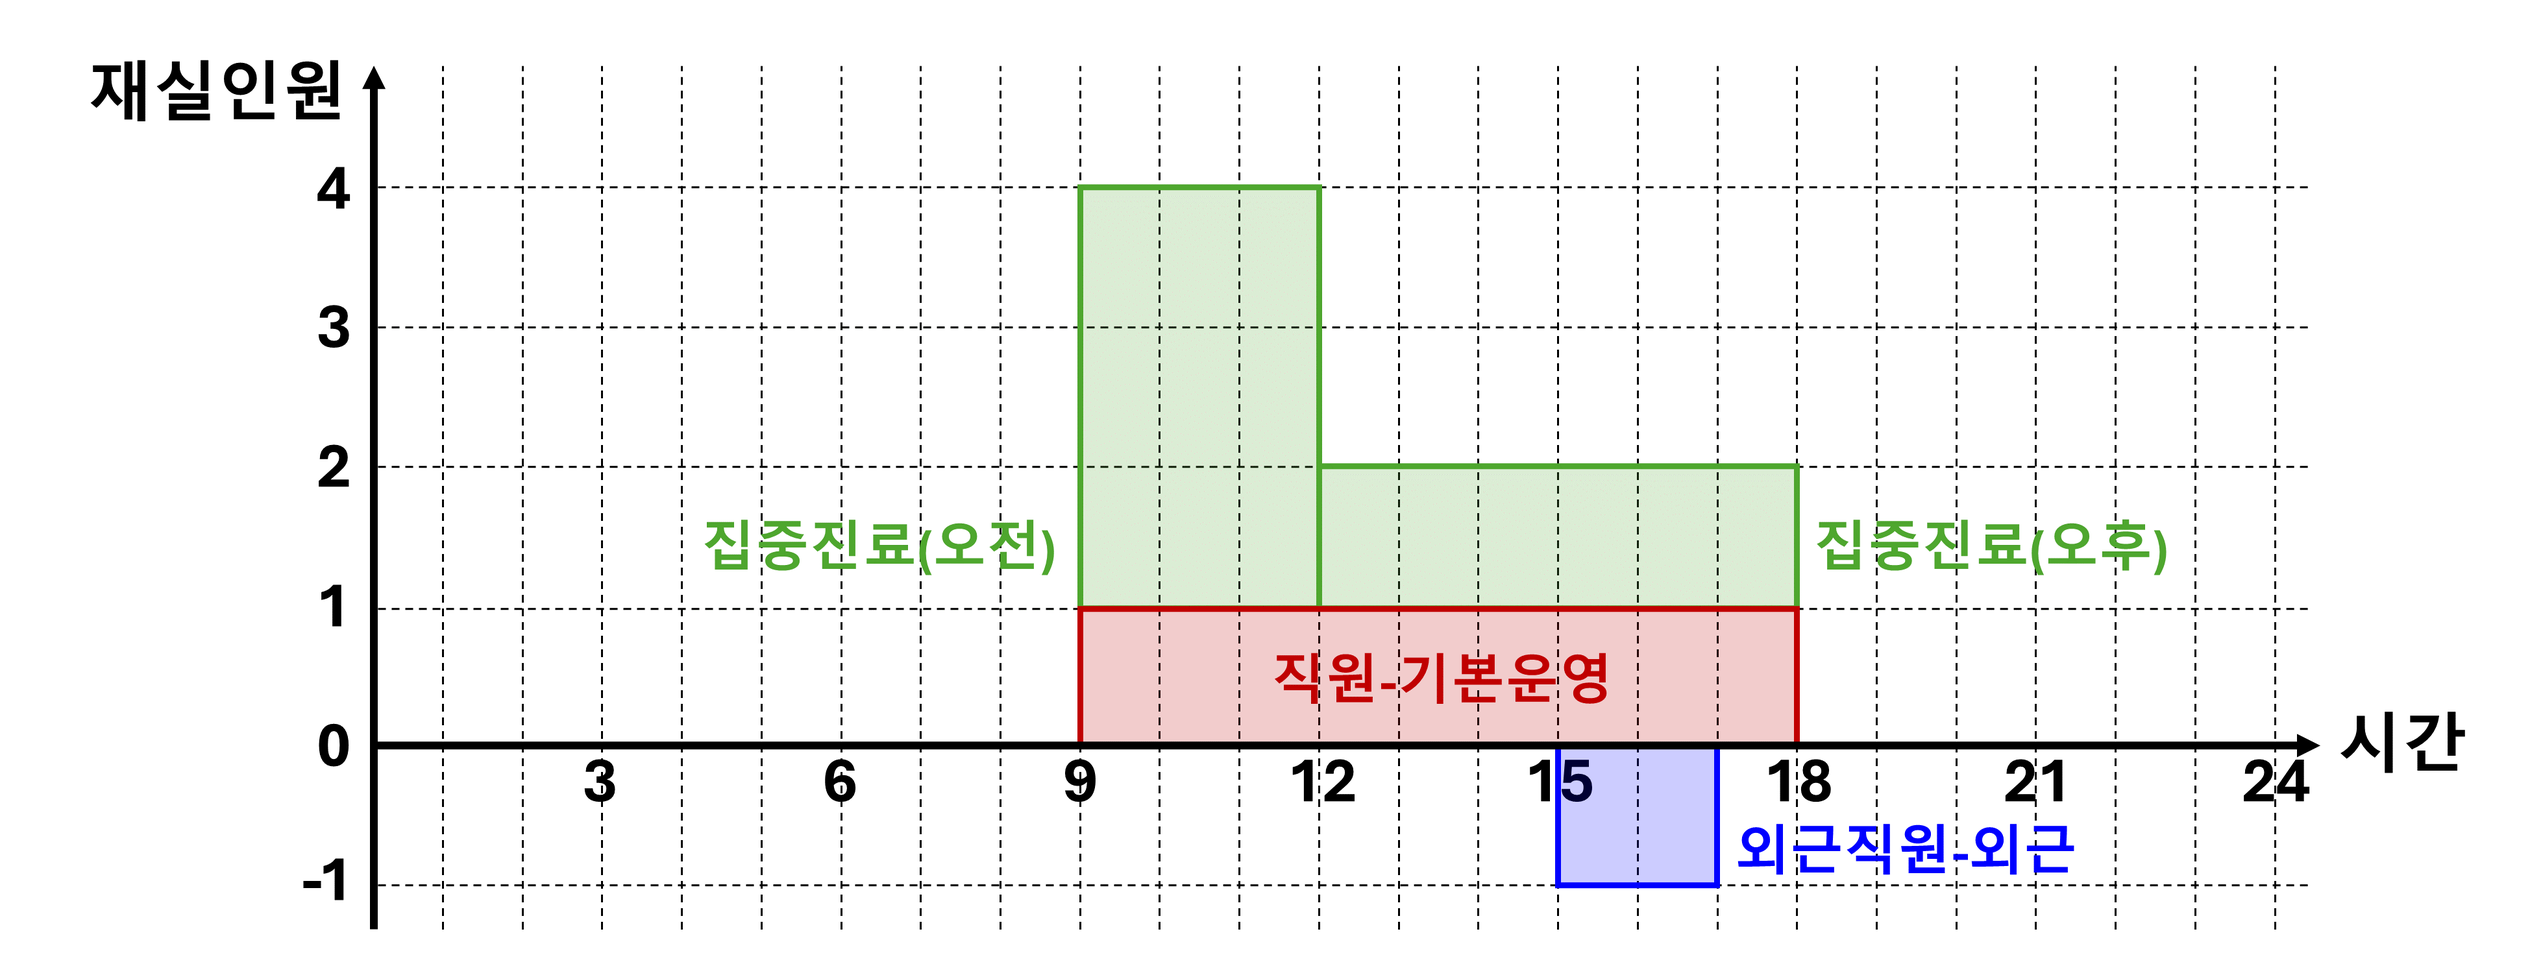
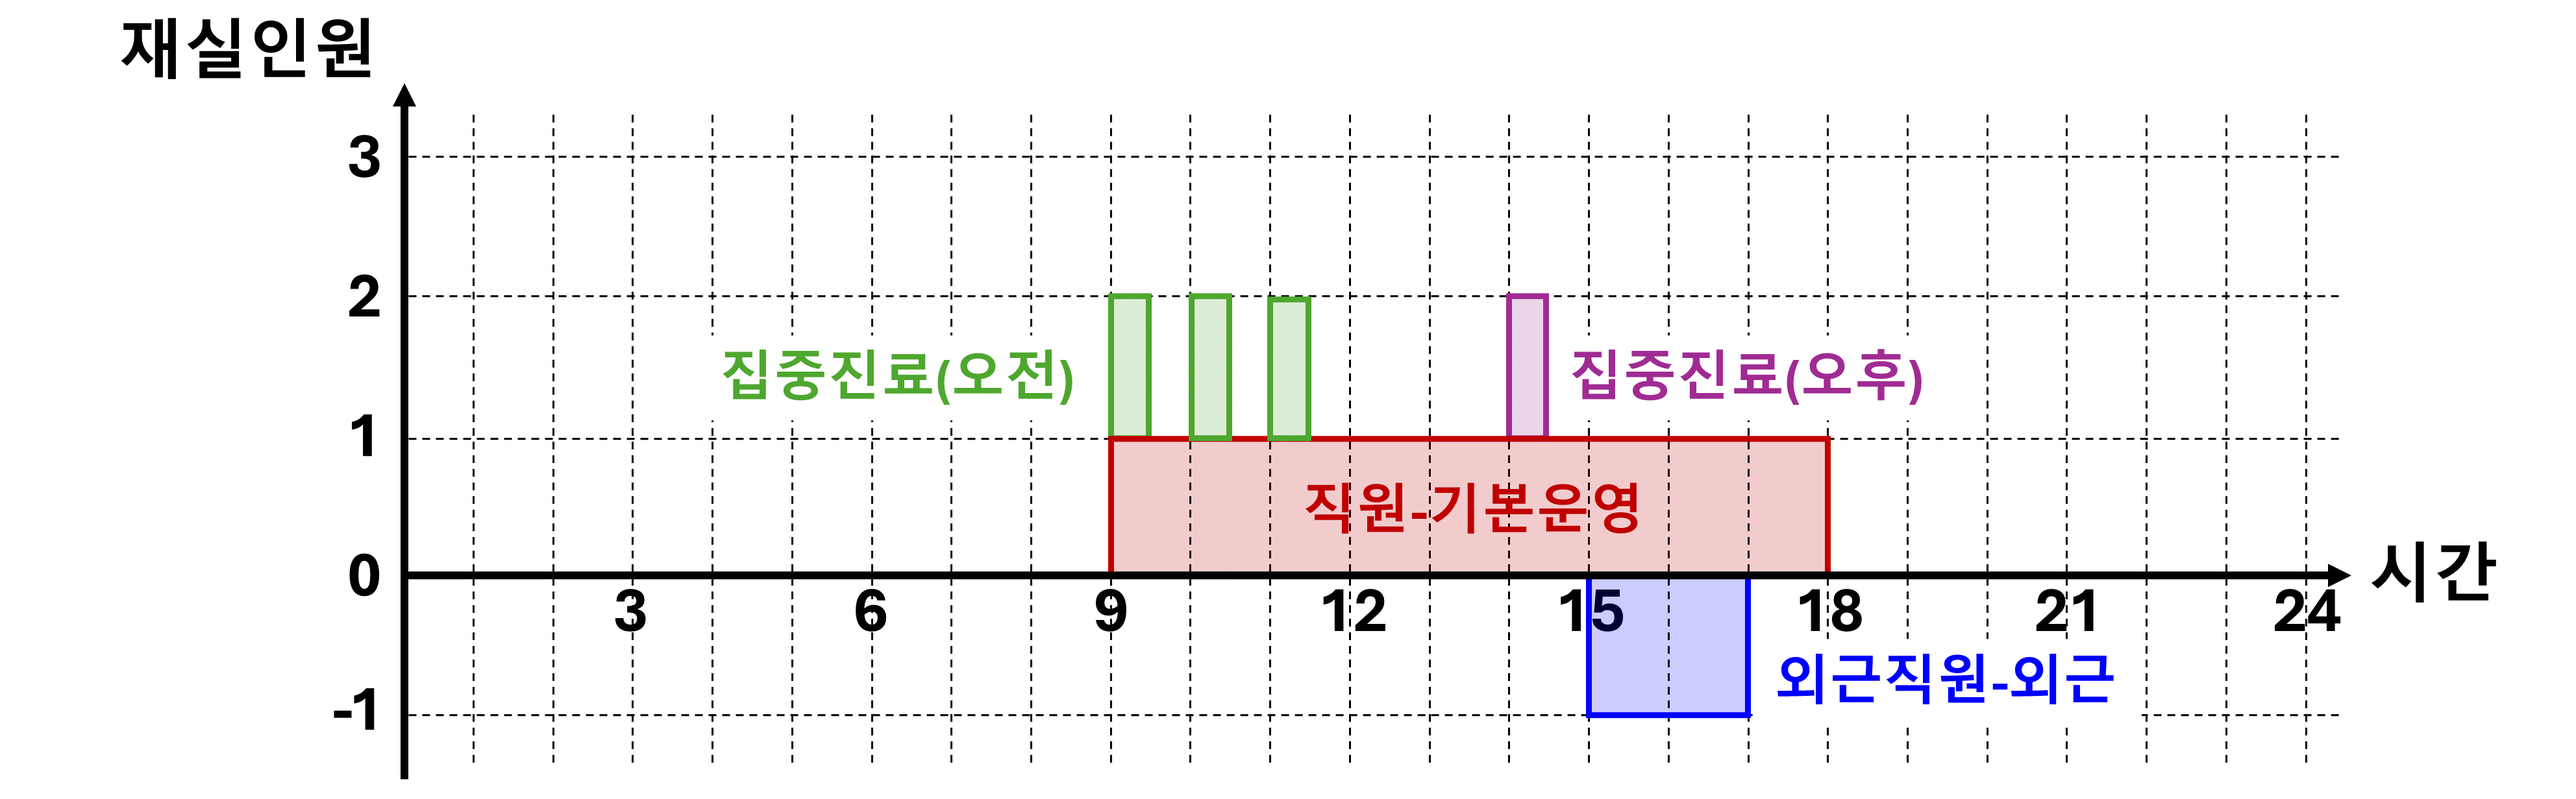
재실, 조명 스케줄 작성 완료

diff --git a/docs/TechnicalReferenceManual/part3.tex b/docs/TechnicalReferenceManual/part3.tex
@@ -188,7 +188,7 @@
 
 각 zone은 현장조사에서 정의된 용도 구분과 연결된다. 예를 들어, 각 zone에는 \texttt{일반존}, \texttt{특화존1}, \texttt{특화존2}와 같은 현장조사 프로필명이 지정되며, 엔진은 이를 기준으로 해당 zone에 적용할 운영정보를 선택한다. 이때 하나의 현장조사 프로필은 복수의 zone에 연결될 수 있다. 
 
-이를 EnergyPlus에서 활용하기 위해서는, 두 가지 핵심 변환 과정이 요구된다.
+이를 EnergyPlus에서 활용하기 위해서는, 세 가지 핵심 변환 과정이 요구된다.
 
 \begin{enumerate}
   \item 값 변환: 현장조사에서 용도 단위로 입력된 값을, zone 단위 입력에 적합하도록 재구성하고 단위를 환산한다.
@@ -200,14 +200,13 @@
 
 \subsubsection{재실스케줄}
 
-
 \begin{table}[ht]
   \caption{재실 현장조사 예시}
   \label{tab:occupancy_survey}
   \centering
   \begin{tabular}{lcc}
     \toprule
-     & \makecell{인원수} & 체류시간
+     & \makecell{인원수} & 체류시간(분)
     \\ \midrule
     직원 &  1 & -
     \\ \midrule
@@ -263,19 +262,58 @@
 
 운영시간과 운영요일 정보는 해당 프로필을 공유하는 모든 \texttt{실}에 공통으로 적용된다. \epreb \은 입력된 시작시간, 종료시간, 운영요일을 바탕으로 요일별 일간 스케줄을 생성하고, 이를 연간 스케줄로 확장한다.\footnote{이에 대한 상세한 기술은 \ref{subsec:ep_profile} 참고} 
 
-\cref{tab:occupancy_survey} 와 \cref{tab:occup_sch_survey}를 EnergyPlus 스케줄로 변환하는 과정은 다음과 같다.
+\cref{tab:occupancy_survey} , \cref{tab:occup_sch_survey} 그리고 \cref{tab:occup_day_survey} \를 EnergyPlus 스케줄로 변환하는 과정은 다음과 같으며, 본 스케줄은 하나의 \texttt{실} 에 입력된 스케줄로 가정한다.
 
-\begin{defaultfigure}
+\begin{enumerate}
+  \item \cref{tab:occupancy_survey} 의 직원 인원수와 \cref{tab:occup_sch_survey} 의 기본 운영값을 활용하여, 기본 재실 스케줄을 생성한다. (\cref{fig:operation_schedule_detail} 의 적색 부분(직원-기본운영))
+  \item \cref{tab:occupancy_survey} 의 외근 직원수와, \cref{tab:occup_sch_survey} 의 외근 운영시간을 활용하여, 외근 재실스케줄을 생성한다. 이때, 외근은 ``재실하지 않는'' 시간이므로, - (마이너스) 스케줄로 생성한다. 참고로, 외근 스케줄은 \cref{tab:occup_day_survey} 에서, ``외근''의 값이 ``TRUE''인 경우에만 적용된다.
+  \item \cref{tab:occupancy_survey} 의 집중진료의 경우, 입력된 체류시간(분)은 1인 기준으로 해석하며, 집중진료 인원수가 N명일 경우, 동일한 체류시간을 갖는 1인 재실 스케줄을 N회 반복하여 적용한다. 본 예시에서는, 오전 집중진료 인원이 3인이므로 30분 스케줄을 3회 반복적용하였다 (\cref{fig:operation_schedule_detail} 의 녹색 부분 (집중진료(오전))). 마찬가지로, 오후 집중진료 인원 또한 동일한 방식으로 적용한다 (\cref{fig:operation_schedule_detail} 의 보라색 부분 (집중진료(오후))).
+  \item 이렇게 생성된 각 재실 스케줄을 합산하여, 최종 zone 재실 스케줄을 도출한다 (\cref{fig:operation_schedule_result}).
+  \item 동일한 방식으로, 요일별 일간 스케줄을 생성하고, 이를 연간 스케줄로 확장하는 방식을 적용하여 EnergyPlus로 연계한다. 참고로, 주말(Weekends) 및 공휴일(Holidays)에는 재실이 없는 것으로 설정한다.
+\end{enumerate}
+
+\begin{figure}[ht]
   \includegraphics[width=\textwidth]{운영스케줄변환상세.png}
-  \caption{운영스케줄 변환 상세}
+  \caption{재실 스케줄 구성 과정}
   \label{fig:operation_schedule_detail}
-\end{defaultfigure}
+\end{figure}
+
+\begin{figure}[ht]
+  \includegraphics[width=\textwidth]{운영스케줄변환종합.png}
+  \caption{재실 스케줄 통합 결과}
+  \label{fig:operation_schedule_result}
+\end{figure}
+
+\paragraph{미수집 변수 보완} 현장조사로부터 직접 수집되지 않는 인체 관련 입력 변수 또한 EnergyPlus 모델링을 위해 정의가 필요하다. 이는 인체 발열량을 포함하며, 해당 값은 건축물에너지효율등급인증규정을 참고하여 70\,W/인으로 적용하였다.
+
+\subsubsection{조명}
+조명 스케줄은 재실 스케줄을 기준으로 설정하였으며, 재실 시간 동안 조명이 점등되는 것으로 가정하였다. 즉, \cref{fig:operation_schedule_result}에서 재실 스케줄 값이 존재하는 시간대에는 조명 스케줄을 켜져있는 것(ON,1)으로, 그 외 시간대에는 꺼져있는 것(OFF,0)으로 설정하였다. (\cref{fig:lights_schedule_result})
 
 \begin{defaultfigure}
-  \includegraphics[width=\textwidth]{운영스케줄변환종합.png}
-  \caption{운영스케줄 변환 최종}
-  \label{fig:operation_schedule_result}
+  \includegraphics[width=\textwidth]{조명스케줄.png}
+  \caption{조명 스케줄 적용 예시}
+  \label{fig:lights_schedule_result}
 \end{defaultfigure}
+
+\subsubsection{설비 스케줄}
+
+
+
+\begin{table}[ht]
+  \caption{냉난방 가동 및 설정온도 변환}
+  \centering
+  \begin{tabular}{lcc}
+    \toprule
+     & \makecell{에너지효율등급\\인증규정} & EnergyPlus\\ \midrule
+    난방설정온도 &  20 [°C] & 20 [°C] \\ \midrule
+    냉방설정온도 &  26 [°C] & 26 [°C] \\ \midrule
+    스케줄      &  07:00-18:00   & \makecell{주중 07:00-18:00\\ 주말 및 공휴일 0}  \\ \midrule
+  \end{tabular}
+\end{table}
+
+\paragraph{단위 및 값 변환} 에너지효율등급규정의 값을 동일하게 적용한다.
+\paragraph{스케줄 변환} 인증규정에 명시된 운전시간(07:00-18:00)과 월간 사용일수를 바탕으로 EnergyPlus의 연간 스케줄을 생성한다. 운전시간은 주중(Weekdays)스케줄에 적용하며, 주말(Weekends) 및 공휴일(Holidays)에는 설비를 운전하지 않는 것으로 설정한다.
+
 
 
 
@@ -288,37 +326,6 @@
   \item 스케줄 변환: 건축물에너지효율등급인증규정의 단순 운영 시간 및 운영일수를 EnergyPlus 스케줄 형식으로 변환한다.
 \end{enumerate}
 
-아래는 건축물에너지효율등급인증규정의 소규모 사무소(30$m^2$이하)(\cref{tab:smallofficeusage})의 프로필을 EnergyPlus입력 스케줄로 변환하는 과정이다.
-
-\subsubsection{재실밀도}
-\begin{table}[ht]
-  \caption{재실스케줄 변환}
-  \centering
-  \begin{tabular}{lcc}
-    \toprule
-     & \makecell{에너지효율등급\\인증규정} & EnergyPlus\\ \midrule
-    재실밀도 &  30 [$Wh/(m^2d)$] & 0.048 [$people/m^2$] \\ \midrule
-    스케줄  &  09:00-18:00      & \makecell{주중 09:00-18:00\\ 주말 및 공휴일 0} \\ \midrule
-  \end{tabular}
-\end{table}
-
-\paragraph{단위 및 값 변환} 건축물에너지효율등급인증규정은 인체의 발열량을 일일 면적당 발열 [$Wh/(m^2d)$]로 정의한다. 반면, EnergyPlus는 인체의 발열을 (a)인당 발열량 [$W/person$]과 (b) 단위 면적당 재실 인원 [$people/m^2$]의 조합으로 입력한다. 본 시뮬레이터에서는 인체의 현열 발열량을 70 [$W/person$]으로 가정하여 변환하였다.\par
-  (30$Wh/(m^2d)$ $\div$ 사용시간 9h $\div$ 인체발열(현열) 70 W/person = 0.048 $people/m^2$)
-\paragraph{스케줄 변환} 인증규정에 명시된 사용시간(09:00-18:00)과 월간 사용일수를 바탕으로 EnergyPlus의 연간 스케줄을 생성한다. 사용시간은 주중(Weekdays)스케줄에 적용하며, 주말(Weekends) 및 공휴일(Holidays)에는 재실이 없는 것으로 설정한다.
-
-
-\subsubsection{조명}
-\begin{table}[ht]
-  \caption{조명스케줄 변환}
-  \centering
-  \begin{tabular}{lcc}
-    \toprule
-     & \makecell{에너지효율등급\\인증규정} & EnergyPlus \\ \midrule
-    스케줄  &  6 [h]      & \makecell{주중 10:00-11:00,13:00-18:00(6[h])\\ 주말 및 공휴일 0} \\ \midrule
-  \end{tabular}
-\end{table}
-
-\paragraph{스케줄 변환} 인증규정의 일일 조명시간 6시간을 충족하기 위해, 점심시간을 제외한 주 업무시간대를 반영하여 EnergyPlus스케줄을 10-11시 및 13-18시로 설정하였다.
 
 \subsubsection{작업보조기기 발열}
 \begin{table}[ht]
@@ -354,23 +361,6 @@
 \paragraph{단위 및 값 변환} 건축물에너지효율등급인증규정은 최소도입외기량을 시간-단위면적당 외기도입량[$m^3/(m^2{\cdot}h)$]으로 정의한다. 반면, EnergyPlus는 최소도입외기량을 초-단위면적당 외기도입량[$m^3/(m^2{\cdot}s)$]으로 정의한다.\par
   (4 $m^3/(m^2{\cdot}h)$ $\div$ 3600 s = 0.0011 $m^3/(m^2{\cdot}s)$)
 \paragraph{스케줄 변환} 재실스케줄과 같게 설정한다.
-
-
-\subsubsection{냉난방 가동 및 설정온도}
-\begin{table}[ht]
-  \caption{냉난방 가동 및 설정온도 변환}
-  \centering
-  \begin{tabular}{lcc}
-    \toprule
-     & \makecell{에너지효율등급\\인증규정} & EnergyPlus\\ \midrule
-    난방설정온도 &  20 [°C] & 20 [°C] \\ \midrule
-    냉방설정온도 &  26 [°C] & 26 [°C] \\ \midrule
-    스케줄      &  07:00-18:00   & \makecell{주중 07:00-18:00\\ 주말 및 공휴일 0}  \\ \midrule
-  \end{tabular}
-\end{table}
-
-\paragraph{단위 및 값 변환} 에너지효율등급규정의 값을 동일하게 적용한다.
-\paragraph{스케줄 변환} 인증규정에 명시된 운전시간(07:00-18:00)과 월간 사용일수를 바탕으로 EnergyPlus의 연간 스케줄을 생성한다. 운전시간은 주중(Weekdays)스케줄에 적용하며, 주말(Weekends) 및 공휴일(Holidays)에는 설비를 운전하지 않는 것으로 설정한다.
 
 
 % ---------------------------------------------------------------------------- %
